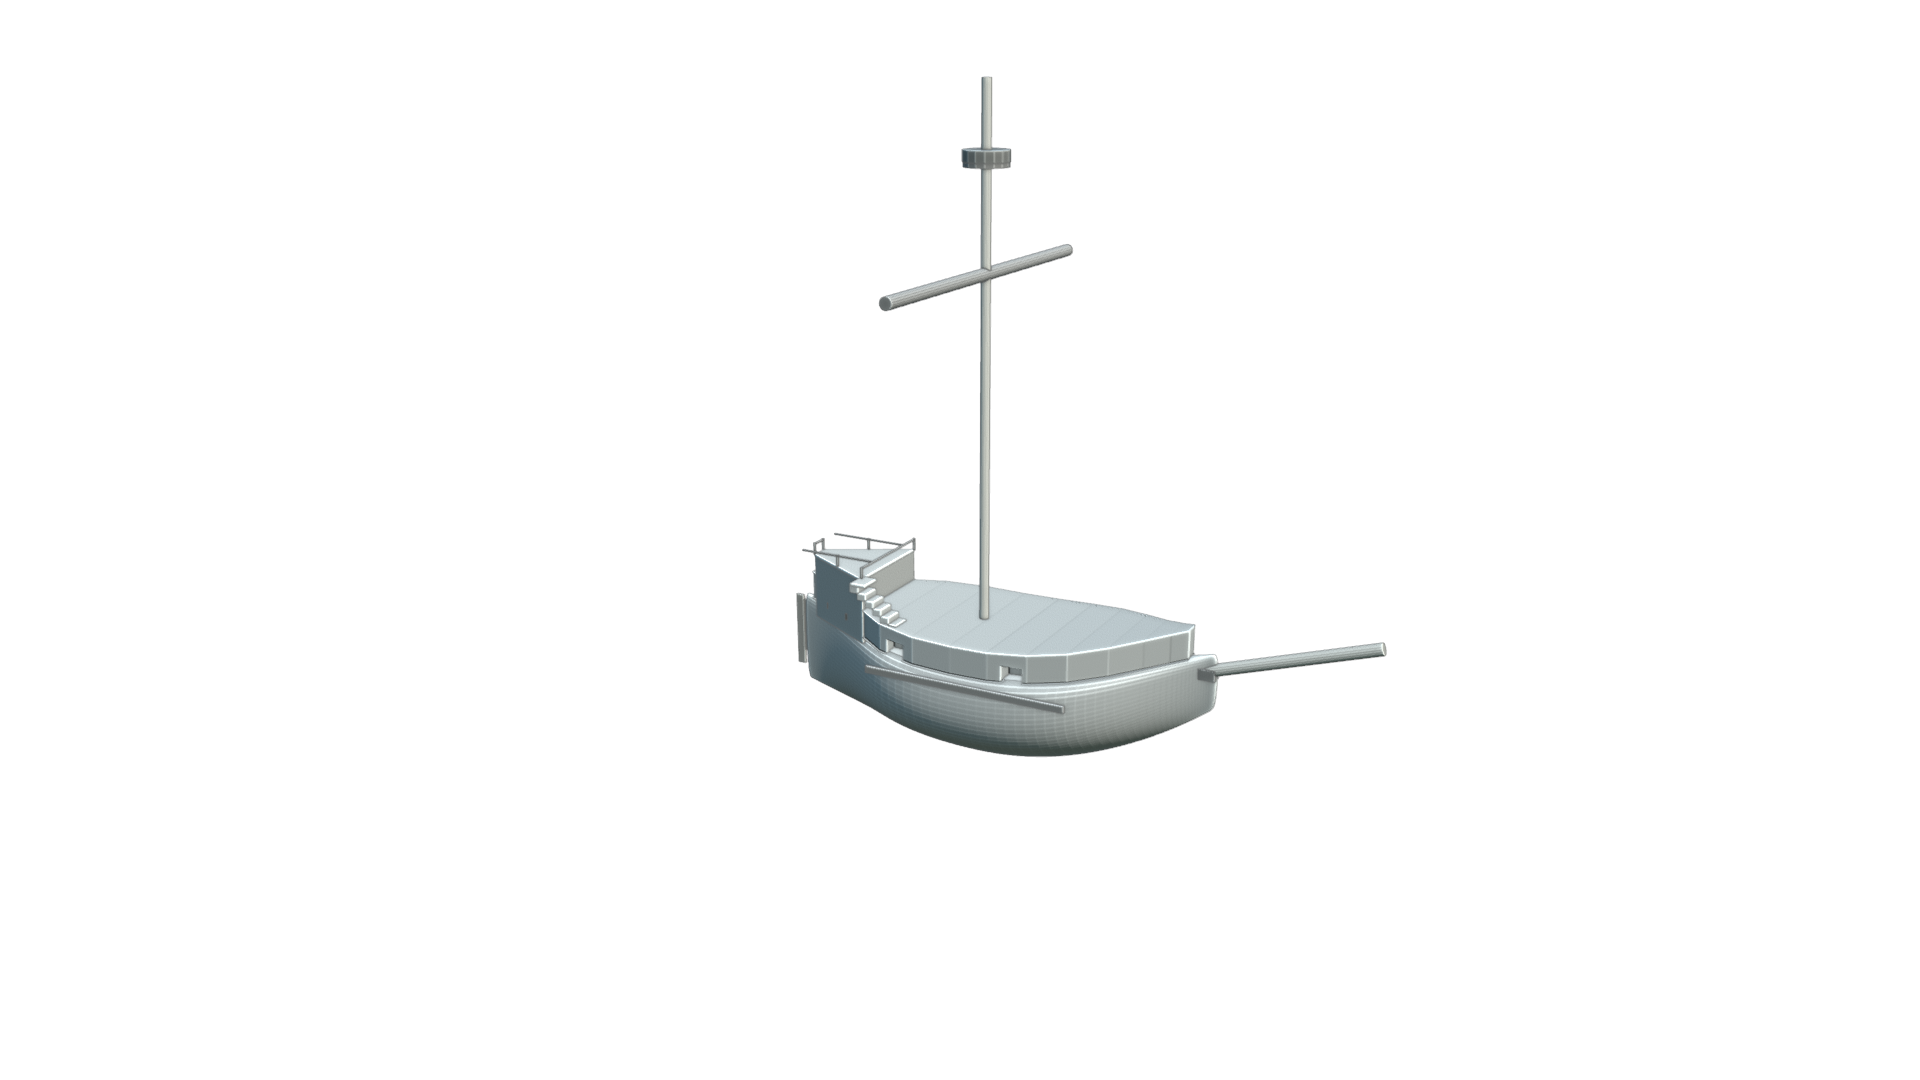
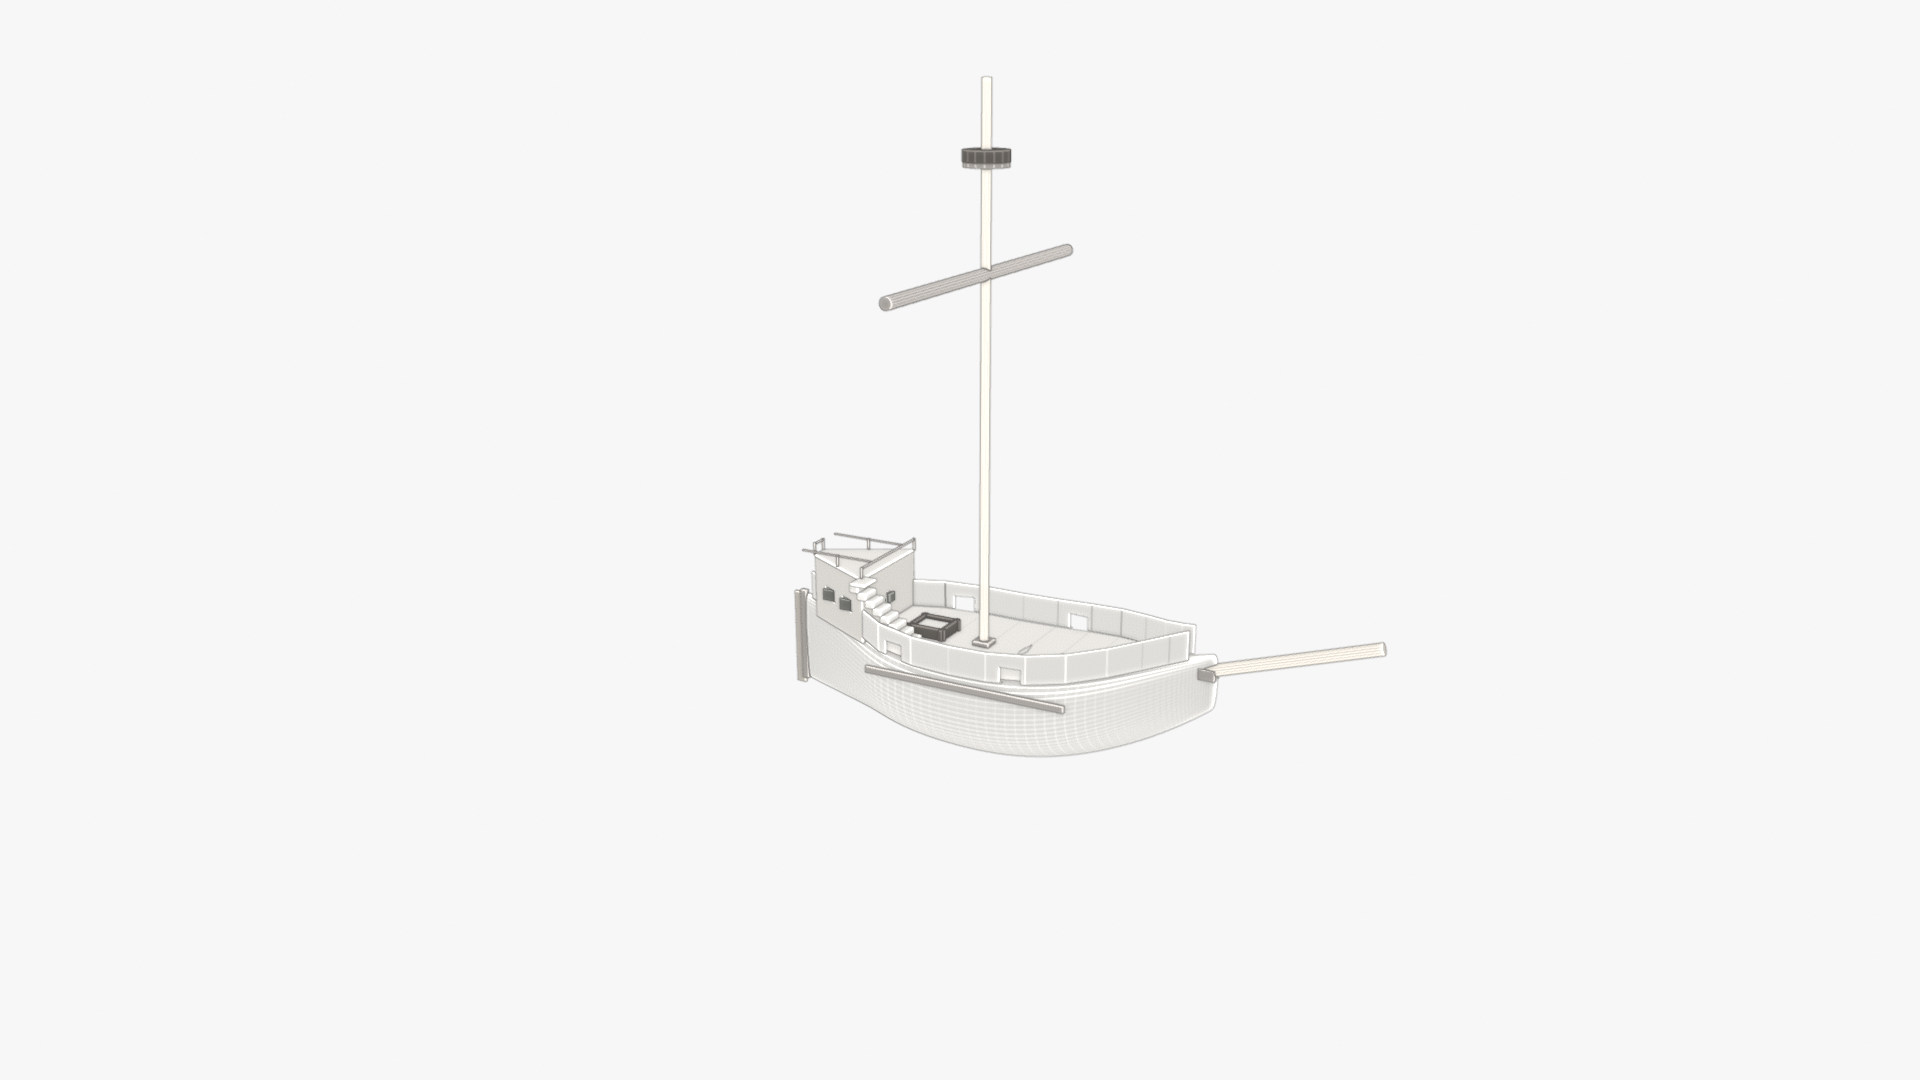
spec(ship): restore SmallSailer01 hatch, cabin windows, and rudder join
Split the bulwark loft so it no longer lids the deck, then rebuild the perspective review with a visible centerline hatch, two starboard cabin windows, a bow-facing pane, and a sternpost-hung rudder.

Changed region(s): [[0.4062, 0.0611, 0.7188, 0.7028], [0.4375, 0.275, 0.4688, 0.3056]]

diff --git a/Tools/BuildSmallSailer01Blender.py b/Tools/BuildSmallSailer01Blender.py
@@ -75,9 +75,9 @@ BULWARK_H = 0.95
 
 # Midship slightly aft of x=0. Hatch stays compact and fully aft of the mast.
 MAST_X = -0.55
-HATCH_X = -2.10
-HATCH_LEN = 1.30
-HATCH_WID = 1.15
+HATCH_X = -2.45
+HATCH_LEN = 1.20
+HATCH_WID = 1.05
 
 # Stern cabin: X0 = aft wall, X1 = bow-facing front wall.
 STERN_CABIN_X0 = -6.90
@@ -89,7 +89,7 @@ HULL_COLOR = (0.74, 0.73, 0.70, 1.0)
 DECK_COLOR = (0.84, 0.82, 0.78, 1.0)
 STRAKE_COLOR = (0.36, 0.34, 0.32, 1.0)
 STERN_COLOR = (0.70, 0.68, 0.64, 1.0)
-HATCH_COLOR = (0.30, 0.29, 0.27, 1.0)
+HATCH_COLOR = (0.12, 0.11, 0.10, 1.0)
 MAST_COLOR = (0.56, 0.53, 0.48, 1.0)
 RUDDER_COLOR = (0.46, 0.43, 0.39, 1.0)
 WINDOW_COLOR = (0.16, 0.16, 0.15, 1.0)
@@ -182,8 +182,26 @@ def ensure_collection(name: str, parent: bpy.types.Collection | None = None) -> 
     return col
 
 
+def ensure_color_material(color: tuple[float, float, float, float]) -> bpy.types.Material:
+    key = "SS01_{:02X}{:02X}{:02X}".format(
+        int(round(color[0] * 255.0)),
+        int(round(color[1] * 255.0)),
+        int(round(color[2] * 255.0)),
+    )
+    mat = bpy.data.materials.get(key)
+    if mat is None:
+        mat = bpy.data.materials.new(key)
+    mat.diffuse_color = color
+    return mat
+
+
 def set_object_color(obj: bpy.types.Object, color: tuple[float, float, float, float]) -> None:
     obj.color = color
+    mat = ensure_color_material(color)
+    data = obj.data
+    if data is not None and hasattr(data, "materials"):
+        data.materials.clear()
+        data.materials.append(mat)
 
 
 def new_mesh_object(
@@ -461,51 +479,114 @@ def build_deck_and_hatch(collection: bpy.types.Collection) -> None:
         if i > 0:
             a = (i - 1) * 2
             faces.append((a, a + 1, a + 3, a + 2))
-    new_mesh_object("Deck", verts, faces, collection, DECK_COLOR)
+    deck = new_mesh_object("Deck", verts, faces, collection, DECK_COLOR)
 
-    mast_aft = MAST_X - 0.28
+    hatch_z = deck_z_at(HATCH_X) + 0.03
     hatch_fwd = HATCH_X + HATCH_LEN * 0.5
-    if hatch_fwd > mast_aft - 0.10:
+    hatch_aft = HATCH_X - HATCH_LEN * 0.5
+    if hatch_fwd > MAST_X - 0.50:
         raise RuntimeError("hatch overlaps mast; adjust HATCH_X / MAST_X")
-    add_box("MastStep", (0.58, 0.58, 0.16), (MAST_X, 0.0, DECK_Z + 0.10), collection, STRAKE_COLOR)
-    add_box(
-        "CargoHatchCoaming",
-        (HATCH_LEN + 0.16, HATCH_WID + 0.16, 0.12),
-        (HATCH_X, 0.0, DECK_Z + 0.10),
-        collection,
-        STRAKE_COLOR,
-    )
-    add_box("CargoHatchWell", (HATCH_LEN, HATCH_WID, 0.08), (HATCH_X, 0.0, DECK_Z + 0.03), collection, HATCH_COLOR)
-    add_box(
-        "CargoHatchCover",
-        (HATCH_LEN - 0.08, HATCH_WID - 0.08, 0.04),
-        (HATCH_X, 0.0, DECK_Z + 0.14),
+    if hatch_aft < STERN_CABIN_X1 + 0.40:
+        raise RuntimeError("hatch overlaps stern cabin; adjust HATCH_X")
+    if abs(STAIR_Y) - HATCH_WID * 0.5 < 0.70:
+        raise RuntimeError("hatch overlaps starboard stairs")
+
+    cutter = add_box(
+        "CargoHatchCutter",
+        (HATCH_LEN + 0.04, HATCH_WID + 0.04, 0.50),
+        (HATCH_X, 0.0, hatch_z),
         collection,
         HATCH_COLOR,
     )
+    apply_boolean_cut(deck, cutter)
+
+    add_box("MastStep", (0.58, 0.58, 0.16), (MAST_X, 0.0, deck_z_at(MAST_X) + 0.10), collection, STRAKE_COLOR)
+    frame_h = 0.38
+    frame_t = 0.14
+    add_box(
+        "CargoHatchCoaming_Fwd",
+        (frame_t, HATCH_WID + 0.24, frame_h),
+        (HATCH_X + HATCH_LEN * 0.5, 0.0, hatch_z + frame_h * 0.5),
+        collection,
+        HATCH_COLOR,
+    )
+    add_box(
+        "CargoHatchCoaming_Aft",
+        (frame_t, HATCH_WID + 0.24, frame_h),
+        (HATCH_X - HATCH_LEN * 0.5, 0.0, hatch_z + frame_h * 0.5),
+        collection,
+        HATCH_COLOR,
+    )
+    add_box(
+        "CargoHatchCoaming_Port",
+        (HATCH_LEN + 0.24, frame_t, frame_h),
+        (HATCH_X, HATCH_WID * 0.5, hatch_z + frame_h * 0.5),
+        collection,
+        HATCH_COLOR,
+    )
+    add_box(
+        "CargoHatchCoaming_Starboard",
+        (HATCH_LEN + 0.24, frame_t, frame_h),
+        (HATCH_X, -HATCH_WID * 0.5, hatch_z + frame_h * 0.5),
+        collection,
+        HATCH_COLOR,
+    )
+    add_box(
+        "CargoHatchWell",
+        (HATCH_LEN, HATCH_WID, 0.28),
+        (HATCH_X, 0.0, hatch_z - 0.08),
+        collection,
+        HATCH_COLOR,
+    )
+    # Leave the well open; two boards keep it readable as one compact hatch.
+    add_box(
+        "CargoHatchBoard_01",
+        (HATCH_LEN - 0.20, 0.16, 0.05),
+        (HATCH_X, -0.22, hatch_z + 0.18),
+        collection,
+        HATCH_COLOR,
+    )
+    add_box(
+        "CargoHatchBoard_02",
+        (HATCH_LEN - 0.20, 0.16, 0.05),
+        (HATCH_X, 0.22, hatch_z + 0.18),
+        collection,
+        HATCH_COLOR,
+    )
+    _log(f"hatch center=({HATCH_X:.2f}, 0.00, {hatch_z:.2f}) span=[{hatch_aft:.2f}, {hatch_fwd:.2f}]")
 
 
-def build_bulwarks(collection: bpy.types.Collection) -> bpy.types.Object:
+def build_bulwarks(collection: bpy.types.Collection) -> list[bpy.types.Object]:
+    # Two separate rails. A single ring would loft a lid across the deck
+    # and hide the hatch / cabin front from the review camera.
     stations = [s for s in hull_stations() if -7.2 <= s["x"] <= 6.9]
-    rings: list[list[tuple[float, float, float]]] = []
+    starboard: list[list[tuple[float, float, float]]] = []
+    port: list[list[tuple[float, float, float]]] = []
     for s in stations:
         hy = s["hy"] * 0.99
         z0 = s["deck"]
         z1 = s["deck"] + BULWARK_H
         thick = 0.10
-        rings.append(
+        starboard.append(
             [
                 (s["x"], -hy, z0),
                 (s["x"], -hy + thick, z0),
                 (s["x"], -hy + thick, z1),
                 (s["x"], -hy, z1),
-                (s["x"], hy, z1),
-                (s["x"], hy - thick, z1),
-                (s["x"], hy - thick, z0),
-                (s["x"], hy, z0),
             ]
         )
-    return loft_from_rings("Bulwarks", rings, collection, HULL_COLOR)
+        port.append(
+            [
+                (s["x"], hy, z0),
+                (s["x"], hy - thick, z0),
+                (s["x"], hy - thick, z1),
+                (s["x"], hy, z1),
+            ]
+        )
+    return [
+        loft_from_rings("Bulwarks_Starboard", starboard, collection, HULL_COLOR),
+        loft_from_rings("Bulwarks_Port", port, collection, HULL_COLOR),
+    ]
 
 
 def build_strakes(collection: bpy.types.Collection) -> None:
@@ -520,6 +601,13 @@ def stern_roof_z() -> float:
 
 def stern_half_widths() -> tuple[float, float]:
     return half_beam_at(STERN_CABIN_X1) * 0.99, half_beam_at(STERN_CABIN_X0) * 0.99
+
+
+def cabin_side_y(x: float) -> float:
+    hy_fwd, hy_aft = stern_half_widths()
+    span = STERN_CABIN_X0 - STERN_CABIN_X1
+    t = 0.0 if abs(span) < 1e-6 else (x - STERN_CABIN_X1) / span
+    return hy_fwd + t * (hy_aft - hy_fwd)
 
 
 def add_trapezoid_prism(
@@ -578,7 +666,7 @@ def build_open_rail(collection: bpy.types.Collection, hy_fwd: float, hy_aft: flo
 
 def build_stern(collection: bpy.types.Collection) -> None:
     hy_fwd, hy_aft = stern_half_widths()
-    add_trapezoid_prism(
+    cabin = add_trapezoid_prism(
         "SternCabin",
         STERN_CABIN_X1,
         STERN_CABIN_X0,
@@ -602,13 +690,57 @@ def build_stern(collection: bpy.types.Collection) -> None:
     )
     build_open_rail(collection, hy_fwd, hy_aft)
 
-    win_z = DECK_Z + 0.62
-    mid_x = (STERN_CABIN_X0 + STERN_CABIN_X1) * 0.5
-    for i, x in enumerate((mid_x + 0.55, mid_x - 0.55), start=1):
-        hy = half_beam_at(x) * 0.99
-        add_box(f"SternWindow_Port_{i:02d}", (0.28, 0.07, 0.22), (x, hy, win_z), collection, WINDOW_COLOR)
-        add_box(f"SternWindow_Starboard_{i:02d}", (0.28, 0.07, 0.22), (x, -hy, win_z), collection, WINDOW_COLOR)
-    add_box("SternWindow_Front_01", (0.07, 0.30, 0.22), (STERN_CABIN_X1, 0.0, win_z), collection, WINDOW_COLOR)
+    # Two equal side openings per wall, plus one small bow-facing front window.
+    win_z = DECK_Z + STERN_CABIN_HEIGHT * 0.50
+    win_l, win_h = 0.50, 0.42
+    side_xs = (
+        STERN_CABIN_X1 + (STERN_CABIN_X0 - STERN_CABIN_X1) * 0.32,
+        STERN_CABIN_X1 + (STERN_CABIN_X0 - STERN_CABIN_X1) * 0.68,
+    )
+    for i, x in enumerate(side_xs, start=1):
+        hy = cabin_side_y(x)
+        cutter_p = add_box(
+            f"SternWindowCutter_Port_{i:02d}",
+            (win_l, 0.55, win_h),
+            (x, hy, win_z),
+            collection,
+            WINDOW_COLOR,
+        )
+        apply_boolean_cut(cabin, cutter_p)
+        cutter_s = add_box(
+            f"SternWindowCutter_Starboard_{i:02d}",
+            (win_l, 0.55, win_h),
+            (x, -hy, win_z),
+            collection,
+            WINDOW_COLOR,
+        )
+        apply_boolean_cut(cabin, cutter_s)
+    front_cutter = add_box(
+        "SternWindowCutter_Front_01",
+        (0.40, 0.40, 0.34),
+        (STERN_CABIN_X1, 0.0, win_z),
+        collection,
+        WINDOW_COLOR,
+    )
+    apply_boolean_cut(cabin, front_cutter)
+    pane_d = 0.08
+    for i, x in enumerate(side_xs, start=1):
+        hy = cabin_side_y(x) + pane_d * 0.5 + 0.02
+        add_box(f"SternWindow_Port_{i:02d}", (win_l - 0.04, pane_d, win_h - 0.04), (x, hy, win_z), collection, WINDOW_COLOR)
+        add_box(
+            f"SternWindow_Starboard_{i:02d}",
+            (win_l - 0.04, pane_d, win_h - 0.04),
+            (x, -hy, win_z),
+            collection,
+            WINDOW_COLOR,
+        )
+    add_box(
+        "SternWindow_Front_01",
+        (0.10, 0.36, 0.30),
+        (STERN_CABIN_X1 + 0.08, 0.0, win_z),
+        collection,
+        WINDOW_COLOR,
+    )
 
 
 def build_stairs(collection: bpy.types.Collection) -> None:
@@ -661,11 +793,35 @@ def build_bowsprit(collection: bpy.types.Collection) -> None:
 
 
 def build_rudder(collection: bpy.types.Collection) -> None:
-    stern_gunwale_z = deck_z_at(-7.40)
-    rudder_top = stern_gunwale_z - 0.08
-    rudder_h = 2.55
-    add_box("Rudder", (0.28, 0.10, rudder_h), (-7.72, 0.0, rudder_top - rudder_h * 0.5), collection, RUDDER_COLOR)
-    add_box("RudderStock", (0.12, 0.10, rudder_top - 0.15), (-7.48, 0.0, (rudder_top - 0.15) * 0.5), collection, RUDDER_COLOR)
+    stern = hull_stations()[0]
+    stern_x = stern["x"]
+    keel_z = stern["keel"]
+    gunwale_z = stern["deck"] + 0.10
+    post_x = stern_x - 0.05
+    post_h = gunwale_z - keel_z
+    add_box(
+        "Sternpost",
+        (0.24, 0.18, post_h),
+        (post_x, 0.0, (keel_z + gunwale_z) * 0.5),
+        collection,
+        STRAKE_COLOR,
+    )
+
+    rudder_top = gunwale_z - 0.10
+    rudder_bottom = keel_z - 0.18
+    rudder_h = rudder_top - rudder_bottom
+    rudder_x = post_x - 0.20
+    add_box(
+        "Rudder",
+        (0.34, 0.12, rudder_h),
+        (rudder_x, 0.0, (rudder_top + rudder_bottom) * 0.5),
+        collection,
+        RUDDER_COLOR,
+    )
+    pintle_x = (post_x + rudder_x) * 0.5
+    for i, z in enumerate((rudder_top - 0.22, (rudder_top + keel_z) * 0.5, keel_z + 0.28), start=1):
+        add_box(f"RudderPintle_{i:02d}", (0.18, 0.10, 0.14), (pintle_x, 0.0, z), collection, STRAKE_COLOR)
+    _log(f"rudder x={rudder_x:.2f} top={rudder_top:.2f} gunwale={gunwale_z:.2f} post_x={post_x:.2f}")
 
 
 def parent_to_root(root: bpy.types.Object, collections: list[bpy.types.Collection]) -> None:
@@ -703,8 +859,7 @@ def setup_cameras(
 ) -> dict[str, bpy.types.Object]:
     mins, maxs = world_bounds(ship_objects)
     size = maxs - mins
-    # Starboard-bow 3/4, depression 18°. Camera stays above the masthead so
-    # crow's nest, hatch, starboard stairs, keel and rudder share one frame.
+    # Approved starboard-bow 3/4. Hatch is visible once bulwarks are two rails.
     mast_top_z = DECK_Z + MAST_LENGTH_M + 0.40
     target = Vector((-1.25, -0.38, 5.10))
     margin = 1.24
@@ -804,7 +959,7 @@ def setup_workbench(scene: bpy.types.Scene, line_style: bool) -> None:
     scene.view_settings.view_transform = "Standard"
     scene.view_settings.look = "None"
     shading = scene.display.shading
-    shading.light = "STUDIO"
+    shading.light = "FLAT"
     shading.studio_light = "outdoor.sl"
     shading.show_shadows = False
     shading.show_cavity = True
@@ -835,7 +990,7 @@ def setup_workbench(scene: bpy.types.Scene, line_style: bool) -> None:
                     node.inputs[1].default_value = 1.6
     else:
         world.color = bg_color[:3]
-    scene.view_settings.exposure = 0.35
+    scene.view_settings.exposure = 0.0
 
 
 def set_water_visible(visible: bool) -> None:
@@ -900,7 +1055,7 @@ def build_whitebox() -> dict[str, bpy.types.Object]:
 
     hull = build_hull(hull_col)
     bulwarks = build_bulwarks(hull_col)
-    punch_gunports([hull, bulwarks], hull_col)
+    punch_gunports([hull, *bulwarks], hull_col)
     build_strakes(hull_col)
     build_deck_and_hatch(deck_col)
     build_stern(stern_col)
